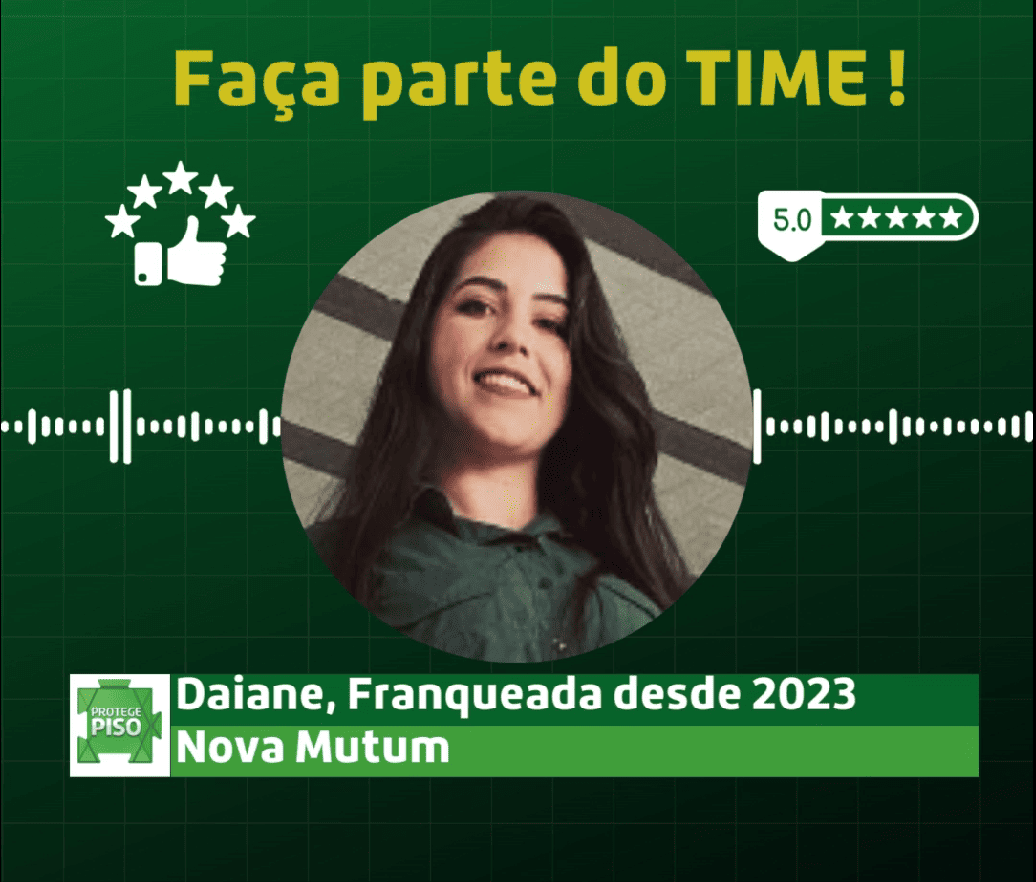
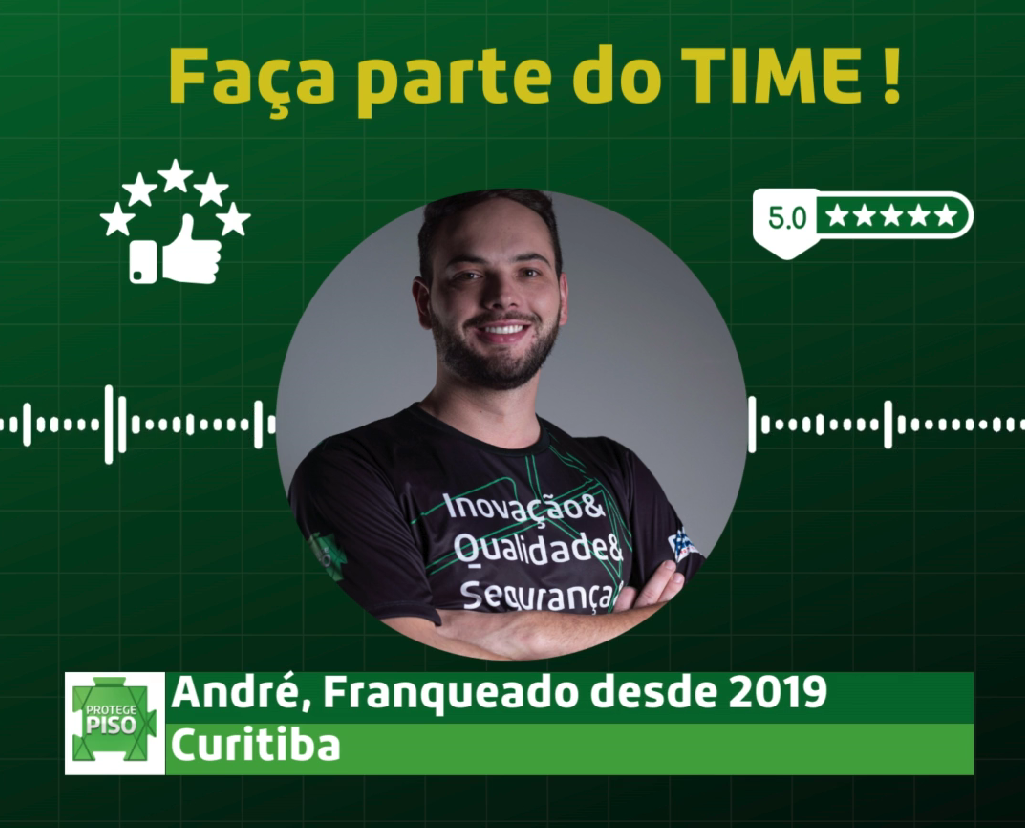
primeira versao franquia curitiba

diff --git a/index.html b/index.html
@@ -5,7 +5,7 @@
     <meta charset="UTF-8">
     <meta name="viewport" content="width=device-width, initial-scale=1.0">
     <meta name="Landing Page" content="Website da franquia da protege piso de Palmas">
-    <title>Protege Piso Nova Mutum</title>
+    <title>Protege Curitiba</title>
     <link rel="stylesheet" href="styles.css">
     <link rel="stylesheet" href="https://cdn.jsdelivr.net/npm/glider-js@1/glider.min.css">
     <script src="https://cdn.jsdelivr.net/npm/glider-js@1/glider.min.js"></script>
@@ -32,7 +32,7 @@
                 <div class="navbar-container">
                     <a href="#" class="logo">
                         <img src="./images/logoprotege.png" alt="Logo da protege piso">
-                        <h3>Nova Mutum</h3>
+                        <h3>Curitiba</h3>
                     </a>
 
                     <div class="menu-toggle" id="mobile-menu" onclick="toggleMenu()">
@@ -185,7 +185,7 @@
                 <p id="followers"></p>
                 <p id="posts"></p>
             </div>
-            <a href="https://www.instagram.com/protegepisonovamutum/" target="_blank"><button type="button"
+            <a href="https://www.instagram.com/protegepisocuritiba/" target="_blank"><button type="button"
                     class="botao-seguir">Seguir</button></a>
         </div>
         <div class="glider-contain-custom">
@@ -197,7 +197,7 @@
     </section>
 
     <section class="container-quem-somos" id="QuemSomos">
-        <h3>EM NOVA MUTUM DESDE 2023</h3>
+        <h3>EM CURITIBA DESDE 2019</h3>
         <img src="images/na_cidade_desde.PNG" class="imagem-quem-somos" alt="imagem do franqueado">
     </section>
 
@@ -208,20 +208,20 @@
 
         <div class="rodape-informacoes">
             <h5>Franquia</h5>
-            <p>novamutum@protegepisos.com.br</p>
+            <p>andre.moro@protegepiso.com.br</p>
             <div class="item-rodape">
-                <a href="https://api.whatsapp.com/send?phone=5565999662466" target="_blank">
+                <a href="https://api.whatsapp.com/send/?phone=5541996041341&text&type=phone_number&app_absent=0" target="_blank">
                     <img src="images/icone_whatsapp.png" alt="icone logo whatsapp"
                         class="rodape-informacoes-icone-whatsapp">
                 </a>
-                <p>(65) 99966-2466</p>
+                <p>(41) 99604-1341</p>
             </div>
             <div class="item-rodape">
-                <a href="https://www.instagram.com/protegepisonovamutum/" target="_blank">
+                <a href="https://www.instagram.com/protegepisocuritiba/" target="_blank">
                     <img src="images/icone_instagram.png" alt="icone logo instagram"
                         class="rodape-informacoes-icone-instagram">
                 </a>
-                <p>@protegepisonovamutum
+                <p>@protegepisocuritiba
                 </p>
             </div>
         </div>

diff --git a/index.js b/index.js
@@ -39,7 +39,7 @@ function toggleMenu() {
     menu.classList.toggle('active');
 }
 
-const apiUrl = 'https://app.ketzim.com/webservice/get-instagram-info/ProtegePisoNovaMutum/?Token=Ld7gRCo9JtIRw0Ub3sC3JxuCgIMvSAzJEMLSutCPh9XosGzzqpdlhsqhUYXHHRyHKPZ6MHcwfl8Dl7ohzsKv7jpihquxHvFmEkFJ';
+const apiUrl = 'https://app.ketzim.com/webservice/get-instagram-info/ProtegePisoCuritiba/?Token=Ld7gRCo9JtIRw0Ub3sC3JxuCgIMvSAzJEMLSutCPh9XosGzzqpdlhsqhUYXHHRyHKPZ6MHcwfl8Dl7ohzsKv7jpihquxHvFmEkFJ';
 
 function displayUserProfile(profile) {
     document.getElementById('profile-picture').src = profile.profile_picture_url;
@@ -134,7 +134,7 @@ function waitForJivoChat() {
 waitForJivoChat();
 
 const iframeContainer = document.querySelector('.container-iframe');
-const iframeUrl = 'https://app.ketzim.com/webservice/mapa/novamutum/';
+const iframeUrl = 'https://app.ketzim.com/webservice/mapa/curitiba/';
 
 
 fetch(iframeUrl)
